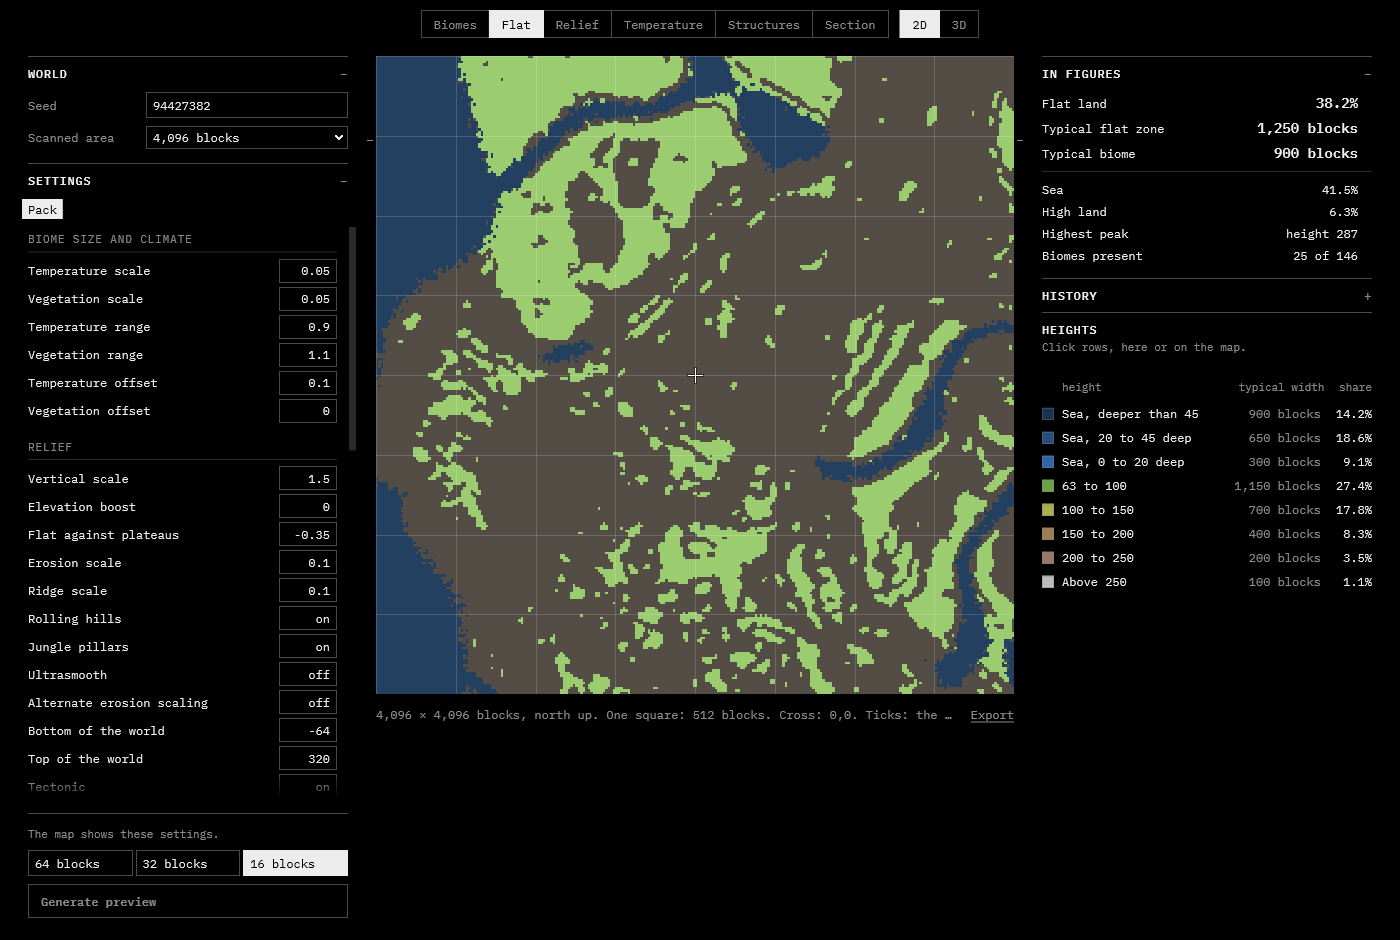
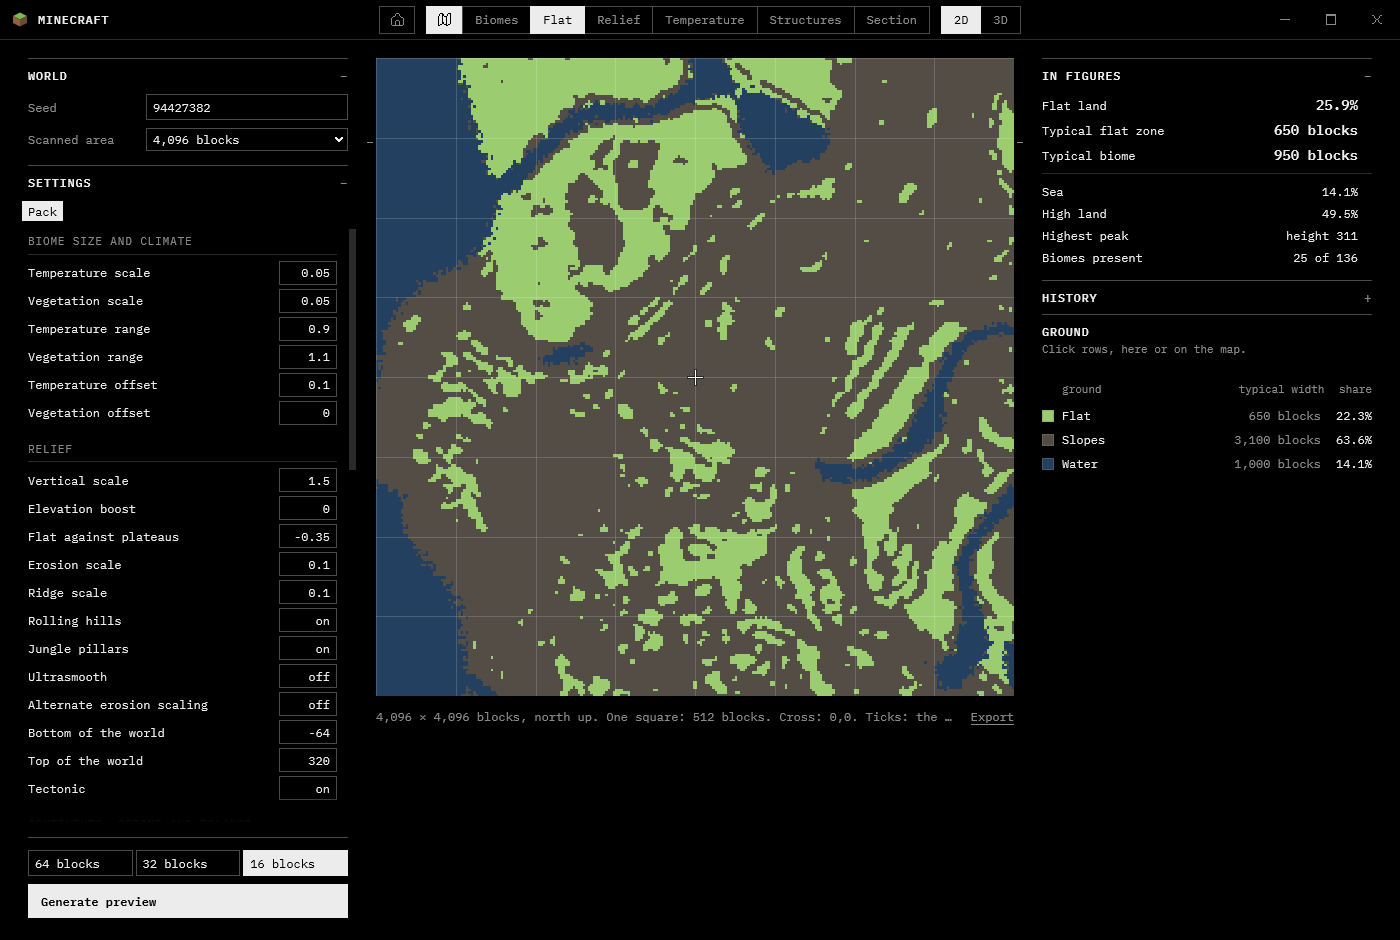
docs: step 19 in the handoff, the design dossier and AGENTS; the pictures of the bar, the fixed layout, tooltips and errors

diff --git a/AGENTS.md b/AGENTS.md
@@ -14,13 +14,13 @@ A small native interface toolkit in Rust, owned end to end and grown piece by pi
 
 ## Where things live
 
-- `crates/nui-base`: geometry, colours, matrices, the orbit camera, draw lists, the `Gfx` and `App` traits, the `Launcher` trait (start a child process without a window, stop it with its whole tree, show a folder), the polyline command and the system's scheme event, the log hub. No OS code, no dependency.
+- `crates/nui-base`: geometry, colours, matrices, the orbit camera, draw lists, the `Gfx` and `App` traits, the `Launcher` trait (start a child process without a window, stop it with its whole tree, show a folder), the polyline command and the shape command (a path with the winding rule), the system's scheme event, the window's state, the hit, cursor and window-request contracts of a window with its own frame, the log hub. No OS code, no dependency.
 - `crates/nui-png`: the PNG writer (deflate with fixed Huffman codes) and a reader for the files it writes, for picture tests.
-- `crates/nui-win32`: the Windows backend: Win32 window, Direct3D 11 for meshes, Direct2D and DirectWrite for the interface, offscreen rendering, the system's light or dark setting and its change (`system_dark`, `WM_SETTINGCHANGE`), and the system launcher (`SystemLauncher`: `CREATE_NO_WINDOW`, `taskkill /T /F`, Explorer, with `std::process` only).
+- `crates/nui-win32`: the Windows backend: Win32 window, Direct3D 11 for meshes, Direct2D and DirectWrite for the interface, offscreen rendering, the system's light or dark setting and its change (`system_dark`, `WM_SETTINGCHANGE`), the own frame (`run_with` and `Frame`: hit test, sizing edges, minimum size, cursors, the wake timer, occlusion), and the system launcher (`SystemLauncher`: `CREATE_NO_WINDOW`, `taskkill /T /F`, Explorer, with `std::process` only).
 - `crates/nui-layout`: pure layout: flex (build step 7), the reduced grid, absolute boxes against their parent and the layout side of overflow (build step 8), tree, measure callbacks, a debug dump. No OS code.
-- `crates/nui-ui`: the immediate-mode interface: ids, pointer input, the page's dark and light themes, label, button, toggle, fold, tabs, the text field and number field, the ellipsis text, the vertical scroll area with the page's thin scrollbar, and the list row (also as a round mark), legend head, part head, pick links, the hover area and the history trend row with its plotted lines (editing model in `edit.rs`, one focused field, keys and clipboard through `nui-base`); hit tests use the last frame's rects. Depends on `nui-base` and `nui-layout` only.
+- `crates/nui-ui`: the immediate-mode interface: ids, pointer input, the page's dark and light themes, label, button, toggle, fold, tabs, the text field and number field, the ellipsis text, the vertical scroll area with the page's thin scrollbar, and the list row (also as a round mark), legend head, part head, pick links, the hover area, the icon parser, the window buttons and the grips of `chrome.rs`, the cursor shapes and the tooltips, and the history trend row with its plotted lines (editing model in `edit.rs`, one focused field, keys and clipboard through `nui-base`); hit tests use the last frame's rects. Depends on `nui-base` and `nui-layout` only.
 - `demos/shell-boxes`: the world preview's page shell laid out at 1400, 1200 and 1000 px and drawn as named boxes and the gallery of the page's grid rows and absolute boxes (`cargo test -p shell-boxes` writes `target/tmp/shell_<width>.png` and `target/tmp/gallery.png`).
-- `demos/preview`: the world preview's window: the shell (step 13: toolbar, three columns, the real settings sections and static values) and, with `--data DIR`, the 2D map of an out folder in the stage (step 14: the five views, pan, zoom, grid, cross, ticks, structure marks, probe), in a window or as a picture, and the 3D view inside the stage (step 15: `scene.rs`, shared with `demos/relief`; left-drag turns, the wheel zooms, `--camera`), and the Section view (step 16: `section.rs` the model and the ore play, `cut.rs` the look, the sheet, the strip and the probe; wheel, drag, strip, "Another cut", the ORES list; `--cut`, `--ore`, `--cut-look`) (`cargo test -p preview` writes `target/tmp/preview_<width>.png`, `map_*.png`, `relief3d_*.png`, `section_*.png`; `docs/shots/preview-*.png`, `map-*.png`, `stage-3d-*.png` and `section-*.png` are the pictures). `tools/page_paint.mjs` and `tools/page_section.mjs` are the reference runs of the page's own `paint()` and section code in Node, which `tests/page_paint.rs` and `tests/page_section.rs` compare byte for byte. And data and runs (step 17: `run.rs`; reads `--data`, default `C:\Games\preview\out`, with its `run.json`; Generate runs the script given by `--generator`, with `--pack`, following its `progress.json`, with a stop, a queued re-run, a learned pace and the busy veil; Export writes the 2D pictures and the section sheet; tested against `tools/stub_run.ps1`, never against the real `preview.ps1` yet; everything it writes goes under `--runs`, which must lie inside `target/tmp`, and `--data` is never written) (`cargo test -p preview` also writes `target/tmp/run_40.png` and `export_done.png`; `docs/shots/run-progress.png` and `export-done.png` are the pictures). And the right column (step 18: `figures.rs` the page's `measure` and the figure cells, `history.rs` the history and its trend lines, kept in `<runs>/history.json` and `before.json`; the list follows the view; the theme follows the system's light or dark setting, `--theme dark|light|system`; `tools/page_figures.mjs` is the reference run of the page's figures, lists and history in Node, which `tests/page_figures.rs` compares bit for bit) (`cargo test -p preview` also writes `target/tmp/figures_*.png`, `history_1400.png`, `structures_list.png` and `scheme_switched.png`; `docs/shots/figures-*.png`, `history.png` and `structures-list.png` are the pictures). It grows into the native preview in step 19.
+- `demos/preview`: the world preview's window: the shell (step 13: bar, three columns, the real settings sections and static values) and, with `--data DIR`, the 2D map of an out folder in the stage (step 14: the five views, pan, zoom, grid, cross, ticks, structure marks, probe), in a window or as a picture, and the 3D view inside the stage (step 15: `scene.rs`, shared with `demos/relief`; left-drag turns, the wheel zooms, `--camera`), and the Section view (step 16: `section.rs` the model and the ore play, `cut.rs` the look, the sheet, the strip and the probe; wheel, drag, strip, "Another cut", the ORES list; `--cut`, `--ore`, `--cut-look`) (`cargo test -p preview` writes `target/tmp/preview_<width>.png`, `map_*.png`, `relief3d_*.png`, `section_*.png`; `docs/shots/preview-*.png`, `map-*.png`, `stage-3d-*.png` and `section-*.png` are the pictures). `tools/page_paint.mjs` and `tools/page_section.mjs` are the reference runs of the page's own `paint()` and section code in Node, which `tests/page_paint.rs` and `tests/page_section.rs` compare byte for byte. And data and runs (step 17: `run.rs`; reads `--data`, default `C:\Games\preview\out`, with its `run.json`; Generate runs the script given by `--generator`, with `--pack`, following its `progress.json`, with a stop, a queued re-run, a learned pace and the busy veil; Export writes the 2D pictures and the section sheet; tested against `tools/stub_run.ps1`, never against the real `preview.ps1` yet; everything it writes goes under `--runs`, which must lie inside `target/tmp`, and `--data` is never written) (`cargo test -p preview` also writes `target/tmp/run_40.png` and `export_done.png`; `docs/shots/run-progress.png` and `export-done.png` are the pictures). And the right column (step 18: `figures.rs` the page's `measure` and the figure cells, `history.rs` the history and its trend lines, kept in `<runs>/history.json` and `before.json`; the list follows the view; the theme follows the system's light or dark setting, `--theme dark|light|system`; `tools/page_figures.mjs` is the reference run of the page's figures, lists and history in Node, which `tests/page_figures.rs` compares bit for bit) (`cargo test -p preview` also writes `target/tmp/figures_*.png`, `history_1400.png`, `structures_list.png` and `scheme_switched.png`; `docs/shots/figures-*.png`, `history.png` and `structures-list.png` are the pictures). And the launcher's bar and the fixed panels (step 19: `bar.rs` the bar on the window's own frame, drawn as the launcher draws it, with its tool switch between Home and the preview and its icons after Pixelarticons (MIT, notice in `demos/preview/THIRD-PARTY.md`); the side panels are fixed, 320 px on the left and 330 on the right, and the centre is one continuous column whose square side is `min(W - 762, H - 144)`, with no breakpoint and a minimum window of 1000x600; titles as tooltips, cursor shapes, a wake timer instead of a busy loop, a hidden window that still follows its run, `export.json` beside the pictures, and a preview folder that cannot be read shown as the page's note instead of a closed window) (`cargo test -p preview` also writes `target/tmp/responsive_*.png`, `bar_*.png`, `tooltip.png` and `error_*.png`; `docs/shots/bar-*.png`, `responsive-*.png`, `tooltip.png` and `error-*.png` are the pictures). The preview is native as of step 19; its Home pane is a placeholder.
 - `demos/relief`: the preview's 3D scene alone in a window (or as a picture) with a facts plate; it reads the `out` folder through the `preview` crate.
 - `demos/widgets`: the widgets in the page's looks: a live window, `--shot`, and `cargo test -p widgets` writing `target/tmp/widgets_dark.png` and `widgets_light.png`, plus the controls sheet (folds, strip, choice, details, number fields): the same test run writes `target/tmp/controls_<theme>.png`, and `--controls` opens it live; the fields sheet (text and number fields driven by scripted events): the same test run writes `target/tmp/fields_<theme>.png`, and `--fields` opens it live; the lists sheet (biome list with scrollbar, narrow list with absent rows, trend rows): the same test run writes `target/tmp/lists_<theme>.png`, and `--lists` opens it live.
 - `GLOSSARY.md`: the project's words (bar, tool, view, strip, panel, stage, cut, probe, run…), confirmed with the maintainer; name things this way.

diff --git a/docs/design.md b/docs/design.md
@@ -373,7 +373,7 @@ Estimated 250 lines.
 - `Hidden`: push a clip rect for the node's padding box when drawing; the node's min-auto is 0.
 - `Scroll/Auto` (y only: 1 use in each file): node keeps `scroll_y` in `Ui` state, content height from `Tree::content_size`, wheel events adjust and clamp, thin scrollbar thumb drawn when content > viewport. ~80 lines in nui-ui.
 
-**Media / container queries**: no engine. The app function does: `let cols = if w < 1100 { A } else if w < 1250 { B } else { C }` (the three grid-template-columns of preview.html map to exactly these). `container-type: size` + `cqw/cqh`: the app reads the stage rect from the previous frame's layout or from a first small layout pass; simplest is to do two `compute` calls per frame when the stage rect changed (INTERPRETATION).
+**Media / container queries**: no engine. The world preview no longer uses any breakpoint (step 19): its panels are 320 and 330 px wide whatever the window, and the centre takes the rest by one rule, with a minimum window of 1000x600; the three-way split below is how the first steps laid it out. The app function does: `let cols = if w < 1100 { A } else if w < 1250 { B } else { C }` (the three grid-template-columns of preview.html map to exactly these). `container-type: size` + `cqw/cqh`: the app reads the stage rect from the previous frame's layout or from a first small layout pass; simplest is to do two `compute` calls per frame when the stage rect changed (INTERPRETATION).
 
 Total layout: about 900 lines including style types, tree, cache and tests.
 
@@ -403,7 +403,7 @@ All screenshots are produced by `nui-shot <view-name> <w>x<h> [--scale 1.5] [--t
 | 16 | Cross-section view | Done: the Section tab (`docs/shots/section-1400.png`, `section-1400-light.png`, `section-zoom.png`, `section-iron.png`, `section-1000.png`): the whole cut as a strip with the frame of the part looked at, then the cut at true scale (one uploaded image of one texel a block: rock, caves, top layers, water, lava, ores played from the pack's rules), wheel, drag, strip click and drag, probe, "Another cut", and the ORES list whose rows pick an ore. `tools/page_section.mjs` runs the page's own section code in Node on `C:\Games\preview\out`: the rules, the ground of the 4 cuts, the per-chunk figures, the drawn layer (27,934 and 32,501 ore cells), the strip and the sheets are equal to the byte (numbers to 1e-9) in `tests/page_section.rs`; `tests/section.rs` checks the layout (frame 638 x 798 at 1400 x 940) and the interactions through the offscreen renderer | 4 |
 | 17 | Data and runs: read `out` folder, spawn the PowerShell script, poll progress, run button with progress bar, export PNG button | Done: Generate starts the generator script by the real argument protocol (`run::command`, 43 keys, switches as booleans) and follows `progress.json` once a second; the run block has the running button (`docs/shots/run-progress.png`: "Generating…" framed in `--text` and filled `--line` to 40 % of 278 px, the 34 x 34 stop square 6 px right, "20 s of about 50 s.", the hairline at 40 %, the steps "✓ … N s" and "› Map, every 16 blocks · 40 %", the map at 0.3 over the ground), a stop that ends the process tree (`taskkill /T /F` through `nui_base::Launcher`; the stub's grandchild is gone in the test) and a queued re-run; a finished run becomes the world and teaches the pace; Export writes biomes, flat, height and temperature PNGs equal to `paint()` byte for byte and the last section sheet (`docs/shots/export-done.png`, 200 of 200 sampled stage pixels equal a texel of `biomes.png` around their place). The real `preview.ps1` was not run (downloads, pack, EULA, Java, gradle); the tests use `tools/stub_run.ps1`, which refuses any folder outside `target/tmp`. 305 tests in the workspace, none skipped | 5 |
 | 18 | Figures column, history list, light/dark switch with OS setting | Done: the right column follows the view with the page's numbers (`docs/shots/figures-1400.png`, `figures-light.png`, `figures-change.png`, `figures-1000.png`, `history.png`, `structures-list.png`). `tools/page_figures.mjs` runs the page's own `measure`, `listOf`, `showFigures`, `remember` and `showHistory` in Node on `C:\Games\preview\out`, and `tests/page_figures.rs` finds the 10 figures, the 5 lists (cells and widths to the bit), the 111 absent ids, 232 width and share strings, the 3 figure-cell cases, the 5 stored history entries and 15 trend paths equal; a window switched to the system's other scheme draws the same bytes as a fresh one | 3 |
-| 19 | Polish: cursor shapes, device loss, DPI change, occlusion, errors | Manual checks at 100/150/200 % | 4 |
+| 19 | Launcher bar on an own frame, fixed panels, polish: cursor shapes, tooltips, device loss, DPI change, occlusion, errors, export.json | Pictures of the bar at 100/150/200 %, the fixed layout at 1000..1920 and the errors; manual checks of the live window | 4 |
 | 20 | IME (IMM32) in the text field | Manual only (needs a Japanese/Chinese IME; UNVERIFIED need) | 6 |
 | 21 | Launcher migration (custom frame, tabs, collapse animation) in the pack's repository | PNGs of Home and preview tabs | later |
 
@@ -456,6 +456,6 @@ R8. Offscreen readback code is my own composition of documented APIs; no Rust re
 R9. Text rendering differences: DirectWrite ClearType vs the browser's text. Screenshots will never match the page pixel for pixel; compare layout, not glyph pixels.
 R10. Time: the earlier ~55 h estimate vs ~80 h in section 4. The gap is mostly the golden-image harness, DPI correctness and crate boundaries. An honest range is 55-85 h; text field and layout are the two items most likely to exceed.
 R11. Licenses: Taffy MIT (https://github.com/DioxusLabs/taffy), microui MIT, egui MIT/Apache-2.0 (UNVERIFIED, from memory), Clay Zlib. We copy no code, only algorithms; if any code is copied keep the notice.
-R12. Open question for the maintainer: is a custom title bar (launcher) needed in the first toolkit release? It changes the Window trait (hit-test regions) - proposed answer: no, add `Window::set_caption_regions` later.
+R12. Settled in step 19: the launcher's own title bar is built. It did not change the Window trait: `App::hit`, `App::cursor` and `App::take_request` are default methods, and `nui_win32::run_with` takes a `Frame { own, min }`.
 R13. Open question: should `Gfx` expose raw D3D to the app (preview needs custom shaders) or only `draw_mesh`? Proposed: only `draw_mesh` with two built-in shaders (lit-textured, flat translucent); a Linux backend then needs only two shaders.
 R14. Unverified: Taffy line counts, the claim that bare `1fr` should be `minmax(auto, 1fr)` in the preview (page uses `minmax(0,1fr)` everywhere except the launcher's `1fr`/`0fr`).

diff --git a/docs/handoff.md b/docs/handoff.md
@@ -5,7 +5,7 @@ a Workflow (the maintainer asked for one in words: "le mieux, ce serait de lance
 is explicit). Read `AGENTS.md` and `docs/design.md` first; this file says where the work stands and how to
 finish steps 0 to 6.
 
-## Status: steps 0 to 18 done (2026-11-14)
+## Status: steps 0 to 19 done (2026-11-15)
 
 The build run finished. `relief <data-dir>` draws `C:\Games\preview\out` in 3D in a window and as `--shot`; the
 shots in `docs/shots` were compared with a capture of the page's 3D view (`world-preview/scripts/capture.ps1`,
@@ -362,7 +362,29 @@ that `C:\Games\preview\out` and `world-preview` were untouched, the one new `win
 inside `nui-win32`), and looked at `figures-1400`, `history`, `stage-3d-relief`, `section-1400` and `run-progress`.
 The step 15 and 17 shots still show step 13's placeholder figures in the right column: they are those steps' record.
 
-Next: step 19 (polish: cursor shapes, device loss, DPI change, occlusion, errors; plus export.json and tooltips).
+Step 19 (2026-11-15) answered the maintainer's remark that the page had too many breakpoints: the world preview's
+panels never move (left 320, right 330, gap 28, padding 18/28/22/28), the centre is one column that scales by one
+rule (the map's square side is `min(W - 762, H - 144)`; the brief's `W - 752` left ten pixels out: 320 + 330 + 2 x 28 +
+2 x 28 = 762), and the top bar has one form from 1000 px up. The window has a minimum of 1000x600, so no layout
+below it exists. The bar is the launcher's, on a frame of our own (`WM_NCCALCSIZE` returns 0, `WM_NCHITTEST` asks
+`App::hit`, the buttons are drawn by `nui-ui`'s `chrome.rs`), with the tool switch Home / preview. The same step
+added cursor shapes, tooltips (the page's titles, 0.5 s delay, painted last), a wake timer with no busy loop, the
+occlusion callback (a covered window is not drawn but still follows its run), device loss through
+`DXGI_STATUS_OCCLUDED` and a rebuild, a DPI change through `WM_DPICHANGED`, `export.json`, and errors in the page's
+wording: a preview folder that is missing shows `noPreview`, one that cannot be read says so in the status line and
+the window stays open (the CLI no longer exits 1 for it).
+
+- Choices where the brief was silent: `Cmd::Shape` (a path with the winding rule) was added to `nui-base` for the
+  icons, drawn crisp with its vertices on device pixels; the icon grammar is the reduced SVG one (`M m L l H h V v Z z`);
+  a hidden window's `tick()` looks at the run and leaves the end for the next frame, which holds the device;
+  `export.json` writes `ores.added` as null (no editor for the added rows natively) and `ores` as null outside the
+  section view; the Home pane is a placeholder text; `UNREADABLE` is our own sentence in the page's style.
+- UNVERIFIED: the bar's hairline at scale 1.5 spills one device row below the bar and was not compared with Chrome;
+  no live check of the window (the cursor, the tooltip delay, the minimum size, occlusion, a DPI change between monitors,
+  Aero snap on the own frame) was made, only the pure functions behind them and the offscreen pictures.
+- Not built: the 3D and structures pictures in the export; the window's dark title bar (the own frame has none); IME.
+
+Next: step 20 (IME in the text field, UNVERIFIED need) and step 21 (the launcher's own migration, in the pack's repository).
 
 Provisional choices, made by the session on 2026-11-14 and not settled: the maintainer had no view of their
 own and asked to see the result first, so revisit both once the panels can be looked at.
